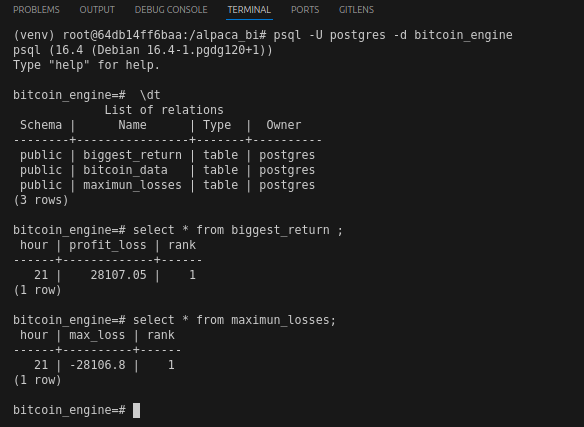
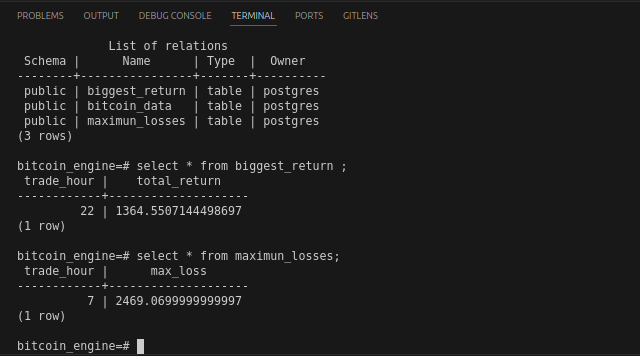
feature/added_final_results

Changed region(s): [[0.0, 0.0, 0.8938, 0.8961], [0.0, 0.927, 0.2466, 1.0], [0.5856, 0.0, 0.6473, 0.0309]]

diff --git a/README.md b/README.md
@@ -51,11 +51,6 @@ Debug logs
 docker logs alpaca_engine
 ```
 
-Open postgres terminal in interactivate mode
-```bash
-docker exec -it alpaca_engine psql -U postgres -d bitcoin_engine
-```
-
 Activate venv
 ```bash
 docker exec -it alpaca_engine bash
@@ -102,6 +97,11 @@ dbt run --profiles-dir / --models trading
 
 ## Check results in Postgres
 
+Open postgres terminal in interactivate mode
+```bash
+docker exec -it alpaca_engine psql -U postgres -d bitcoin_engine
+```
+
 Inside the terminal let's check if the table were created in our postgres database
 ```bash
 psql -U postgres -d bitcoin_engine
@@ -110,11 +110,13 @@ psql -U postgres -d bitcoin_engine
 
 Now let's answer the question 1:
 ```bash
-select * from biggest_return ;
-```
+select * from biggest_return ; # at 22:00
+``` 
 
 Finally, lets answer question 2:
 ```bash
-select * from maximun_losses; ;
+select * from maximun_losses; ; # at 7:00
 ```
+
+After running dbt, our tables have been successfully created and are ready to answer the questions, as shown in the image below:
 ![DBT Version](assets/business_questions.png)
